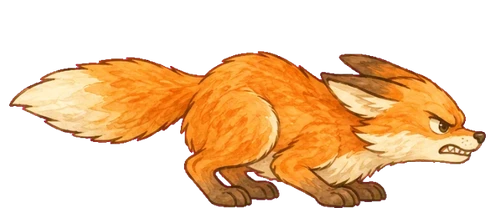
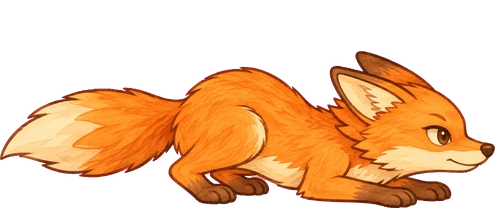
들여우 준비·도약 그림을 걷기 그림체에 맞춰 교체 (fox_a1/a2) (#134)
Claude-Session: https://claude.ai/code/session_01SwHSdZUuqR4fiCaFb6o9ib

diff --git a/games/autelia/index.html b/games/autelia/index.html
@@ -6,7 +6,7 @@
 <title>아우텔리아 (시제품)</title>
 <link rel="preconnect" href="https://fonts.googleapis.com">
 <link href="https://fonts.googleapis.com/css2?family=Noto+Sans+KR:wght@300;400;500;700&display=swap" rel="stylesheet">
-<link rel="stylesheet" href="css/game.css?v=122">
+<link rel="stylesheet" href="css/game.css?v=123">
 </head>
 <body>
 <div id="stage" tabindex="-1">
@@ -16,39 +16,39 @@
   <div id="boot">불러오는 중…</div>
 </div>
 <noscript><p style="padding:20px">이 게임은 JavaScript가 필요합니다.</p></noscript>
-<script src="js/config.js?v=122"></script>
-<script src="js/prologue/artmeta.js?v=122"></script>
-<script src="js/data.js?v=122"></script>
-<script src="js/mission_spans.js?v=122"></script>
-<script src="js/prologue/data.js?v=122"></script>
-<script src="js/prologue/text_intro.js?v=122"></script>
-<script src="js/story1.js?v=122"></script>
-<script src="js/story_hideout.js?v=122"></script>
-<script src="js/porto_ext.js?v=122"></script>
-<script src="js/prologue/intro_timeline.js?v=122"></script>
-<script src="js/core.js?v=122"></script>
-<script src="js/tint.js?v=122"></script>
-<script src="js/systems.js?v=122"></script>
-<script src="js/profile.js?v=122"></script>
-<script src="js/prologue/art.js?v=122"></script>
-<script src="js/prologue/art2.js?v=122"></script>
-<script src="js/prologue/engine.js?v=122"></script>
-<script src="js/prologue/scenes.js?v=122"></script>
-<script src="js/mission_evidence.js?v=122"></script>
-<script src="js/real_bridge.js?v=122"></script>
-<script src="js/world.js?v=122"></script>
-<script src="js/ui.js?v=122"></script>
-<script src="js/guide.js?v=122"></script>
-<script src="js/journal_tour.js?v=122"></script>
-<script src="js/first_mission_guide.js?v=122"></script>
-<script src="js/equip_tour.js?v=122"></script>
-<script src="js/scales/pss10_ko_park_seo_2010.js?v=122"></script>
-<script src="js/scales/perma_kperma_2019.js?v=122"></script>
-<script src="js/survey.js?v=122"></script>
-<script src="js/survey_ui.js?v=122"></script>
-<script src="js/sfx.js?v=122"></script>
-<script src="js/sfx_wire.js?v=122"></script>
-<script src="js/bgm.js?v=122"></script>
-<script src="js/main.js?v=122"></script>
+<script src="js/config.js?v=123"></script>
+<script src="js/prologue/artmeta.js?v=123"></script>
+<script src="js/data.js?v=123"></script>
+<script src="js/mission_spans.js?v=123"></script>
+<script src="js/prologue/data.js?v=123"></script>
+<script src="js/prologue/text_intro.js?v=123"></script>
+<script src="js/story1.js?v=123"></script>
+<script src="js/story_hideout.js?v=123"></script>
+<script src="js/porto_ext.js?v=123"></script>
+<script src="js/prologue/intro_timeline.js?v=123"></script>
+<script src="js/core.js?v=123"></script>
+<script src="js/tint.js?v=123"></script>
+<script src="js/systems.js?v=123"></script>
+<script src="js/profile.js?v=123"></script>
+<script src="js/prologue/art.js?v=123"></script>
+<script src="js/prologue/art2.js?v=123"></script>
+<script src="js/prologue/engine.js?v=123"></script>
+<script src="js/prologue/scenes.js?v=123"></script>
+<script src="js/mission_evidence.js?v=123"></script>
+<script src="js/real_bridge.js?v=123"></script>
+<script src="js/world.js?v=123"></script>
+<script src="js/ui.js?v=123"></script>
+<script src="js/guide.js?v=123"></script>
+<script src="js/journal_tour.js?v=123"></script>
+<script src="js/first_mission_guide.js?v=123"></script>
+<script src="js/equip_tour.js?v=123"></script>
+<script src="js/scales/pss10_ko_park_seo_2010.js?v=123"></script>
+<script src="js/scales/perma_kperma_2019.js?v=123"></script>
+<script src="js/survey.js?v=123"></script>
+<script src="js/survey_ui.js?v=123"></script>
+<script src="js/sfx.js?v=123"></script>
+<script src="js/sfx_wire.js?v=123"></script>
+<script src="js/bgm.js?v=123"></script>
+<script src="js/main.js?v=123"></script>
 </body>
 </html>

diff --git a/games/autelia/tests/fox_attack_art.js b/games/autelia/tests/fox_attack_art.js
@@ -1,0 +1,11 @@
+/* 들여우 준비·도약 새 그림: 495×208, 투명 배경, 로드 확인 (11-24) */
+const { chromium } = require('playwright');
+const URL = (process.env.GAME_URL || 'http://localhost:8801') + '/index.html?dev=1&intro=cards';
+(async () => {
+  const b = await chromium.launch(); const p = await (await b.newContext()).newPage(); const errs = []; p.on('pageerror', (e) => errs.push(e.message));
+  await p.goto(URL); await p.waitForSelector('#btn-start');
+  const r = await p.evaluate(async () => { const o = {}; for (const n of ['fox_a1', 'fox_a2']) { const im = new Image(); im.src = 'assets/monster/' + n + '.webp'; await im.decode(); const c = document.createElement('canvas'); c.width = im.width; c.height = im.height; const x = c.getContext('2d'); x.drawImage(im, 0, 0); const d = x.getImageData(0, 0, 4, 4).data; o[n] = { w: im.width, h: im.height, cornerAlpha: d[3] }; } return o; });
+  let fail = 0; for (const n in r) { const ok = r[n].w === 495 && r[n].h === 208 && r[n].cornerAlpha === 0; console.log((ok ? 'PASS ' : 'FAIL ') + n + ' ' + JSON.stringify(r[n])); if (!ok) fail++; }
+  if (errs.length) { console.log('FAIL errors', errs); fail++; }
+  await b.close(); process.exit(fail ? 1 : 0);
+})();
